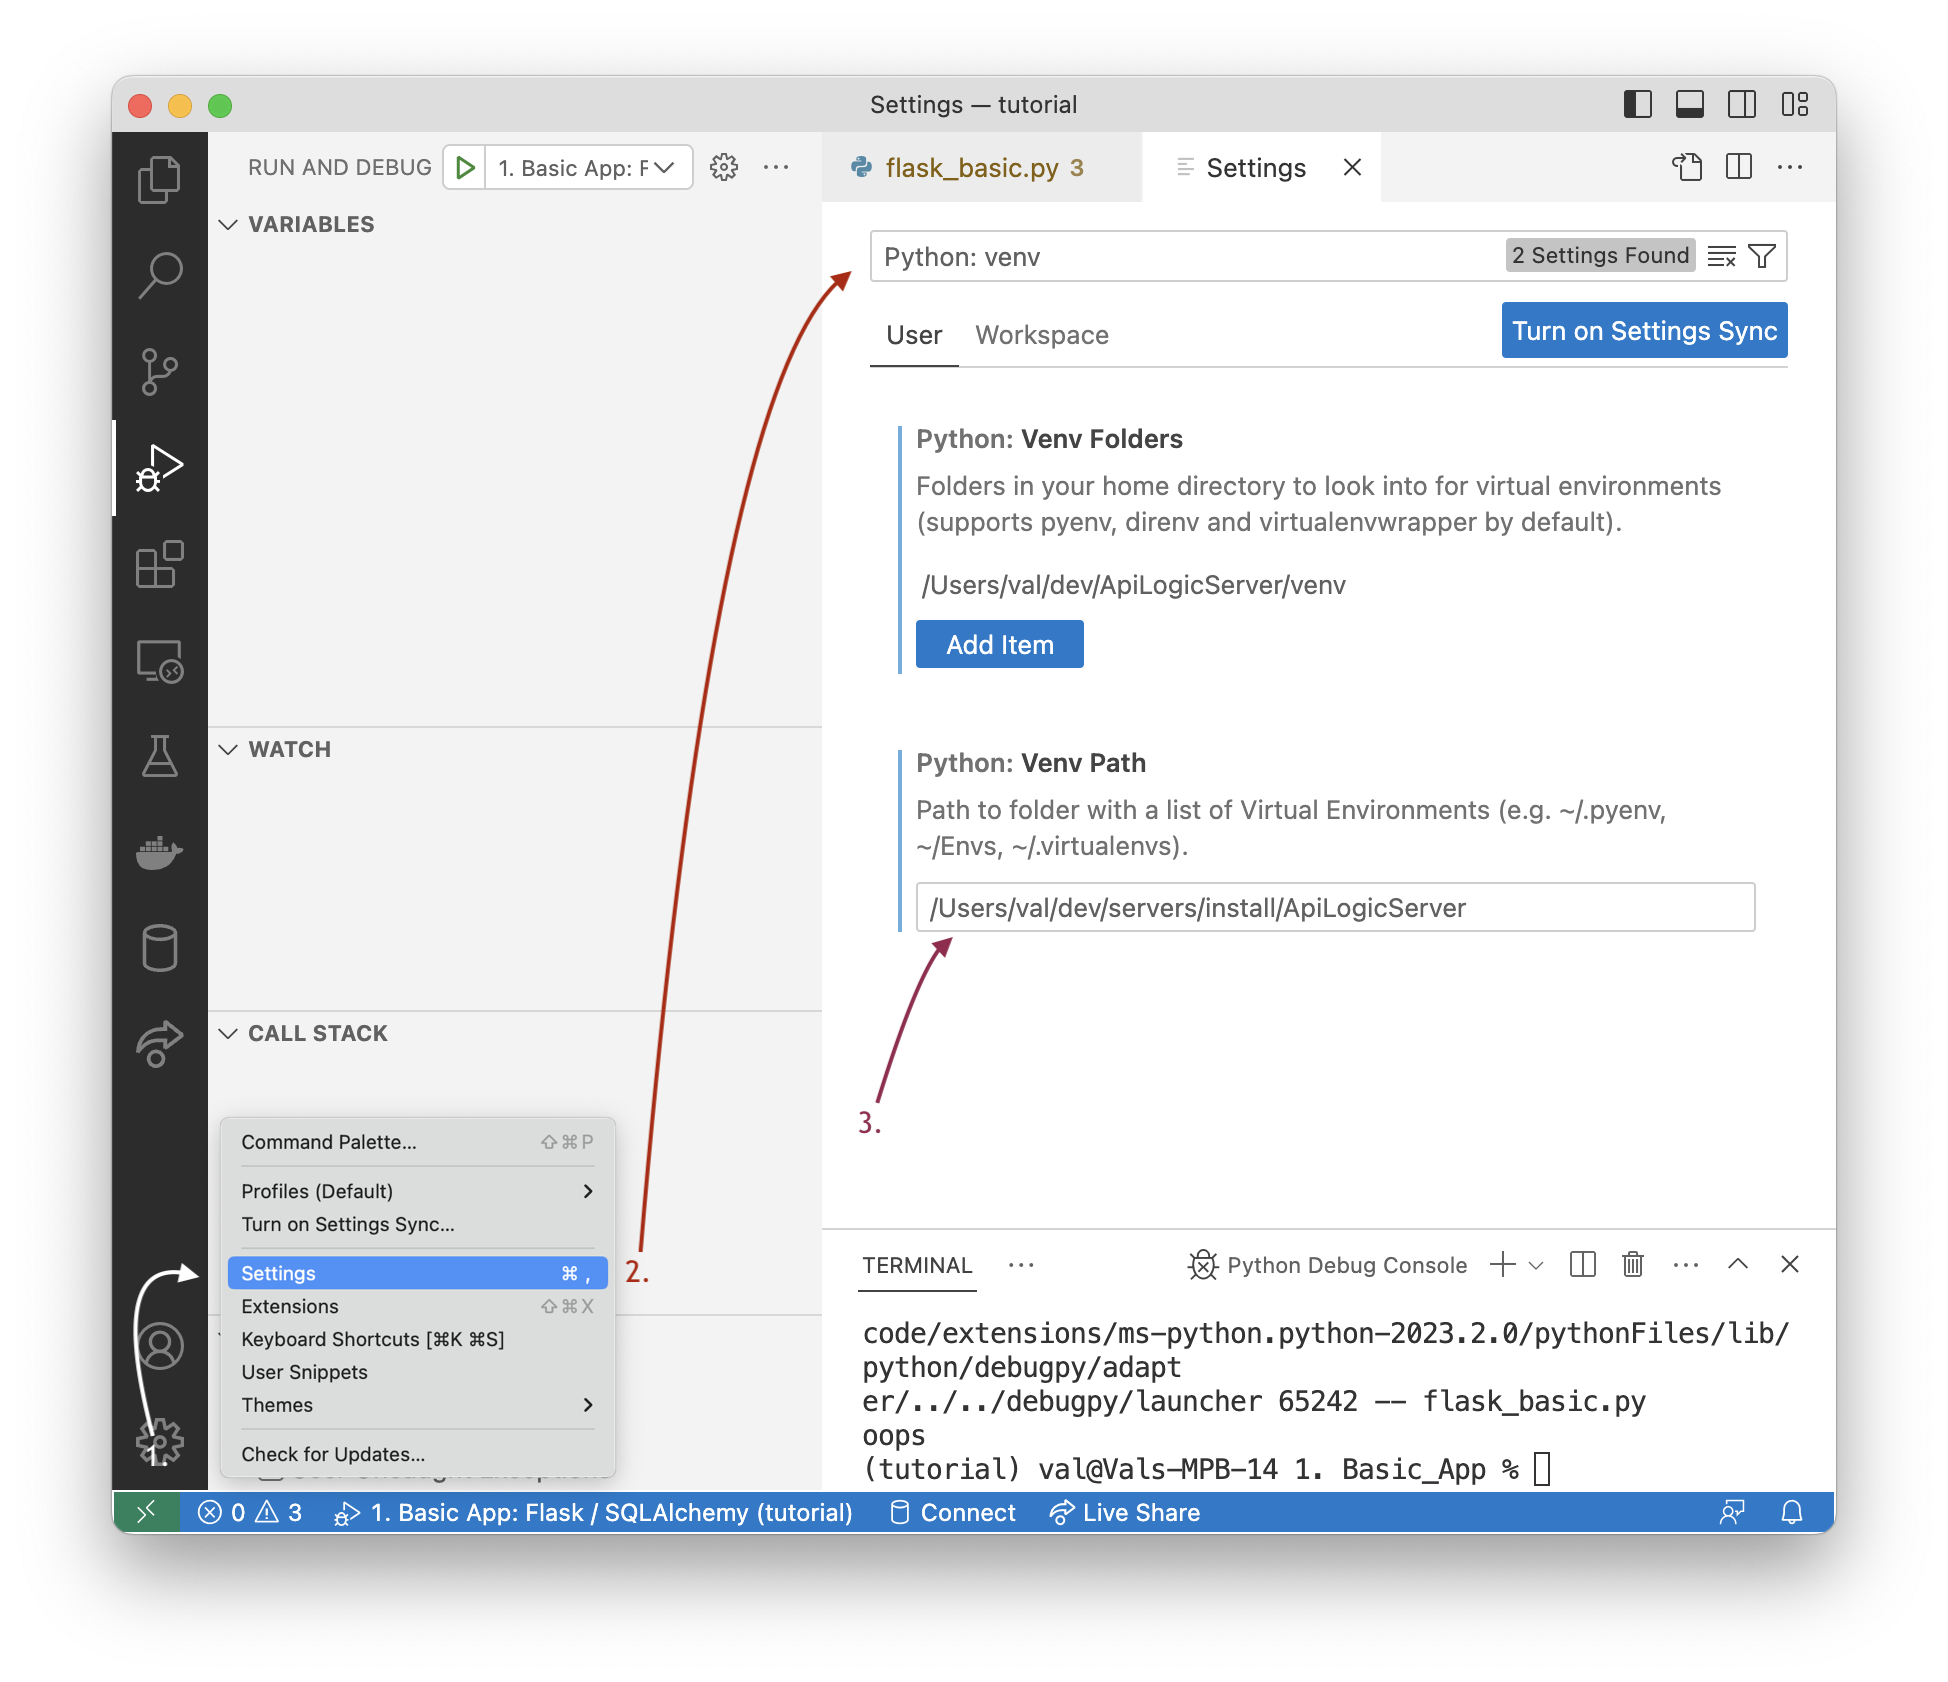
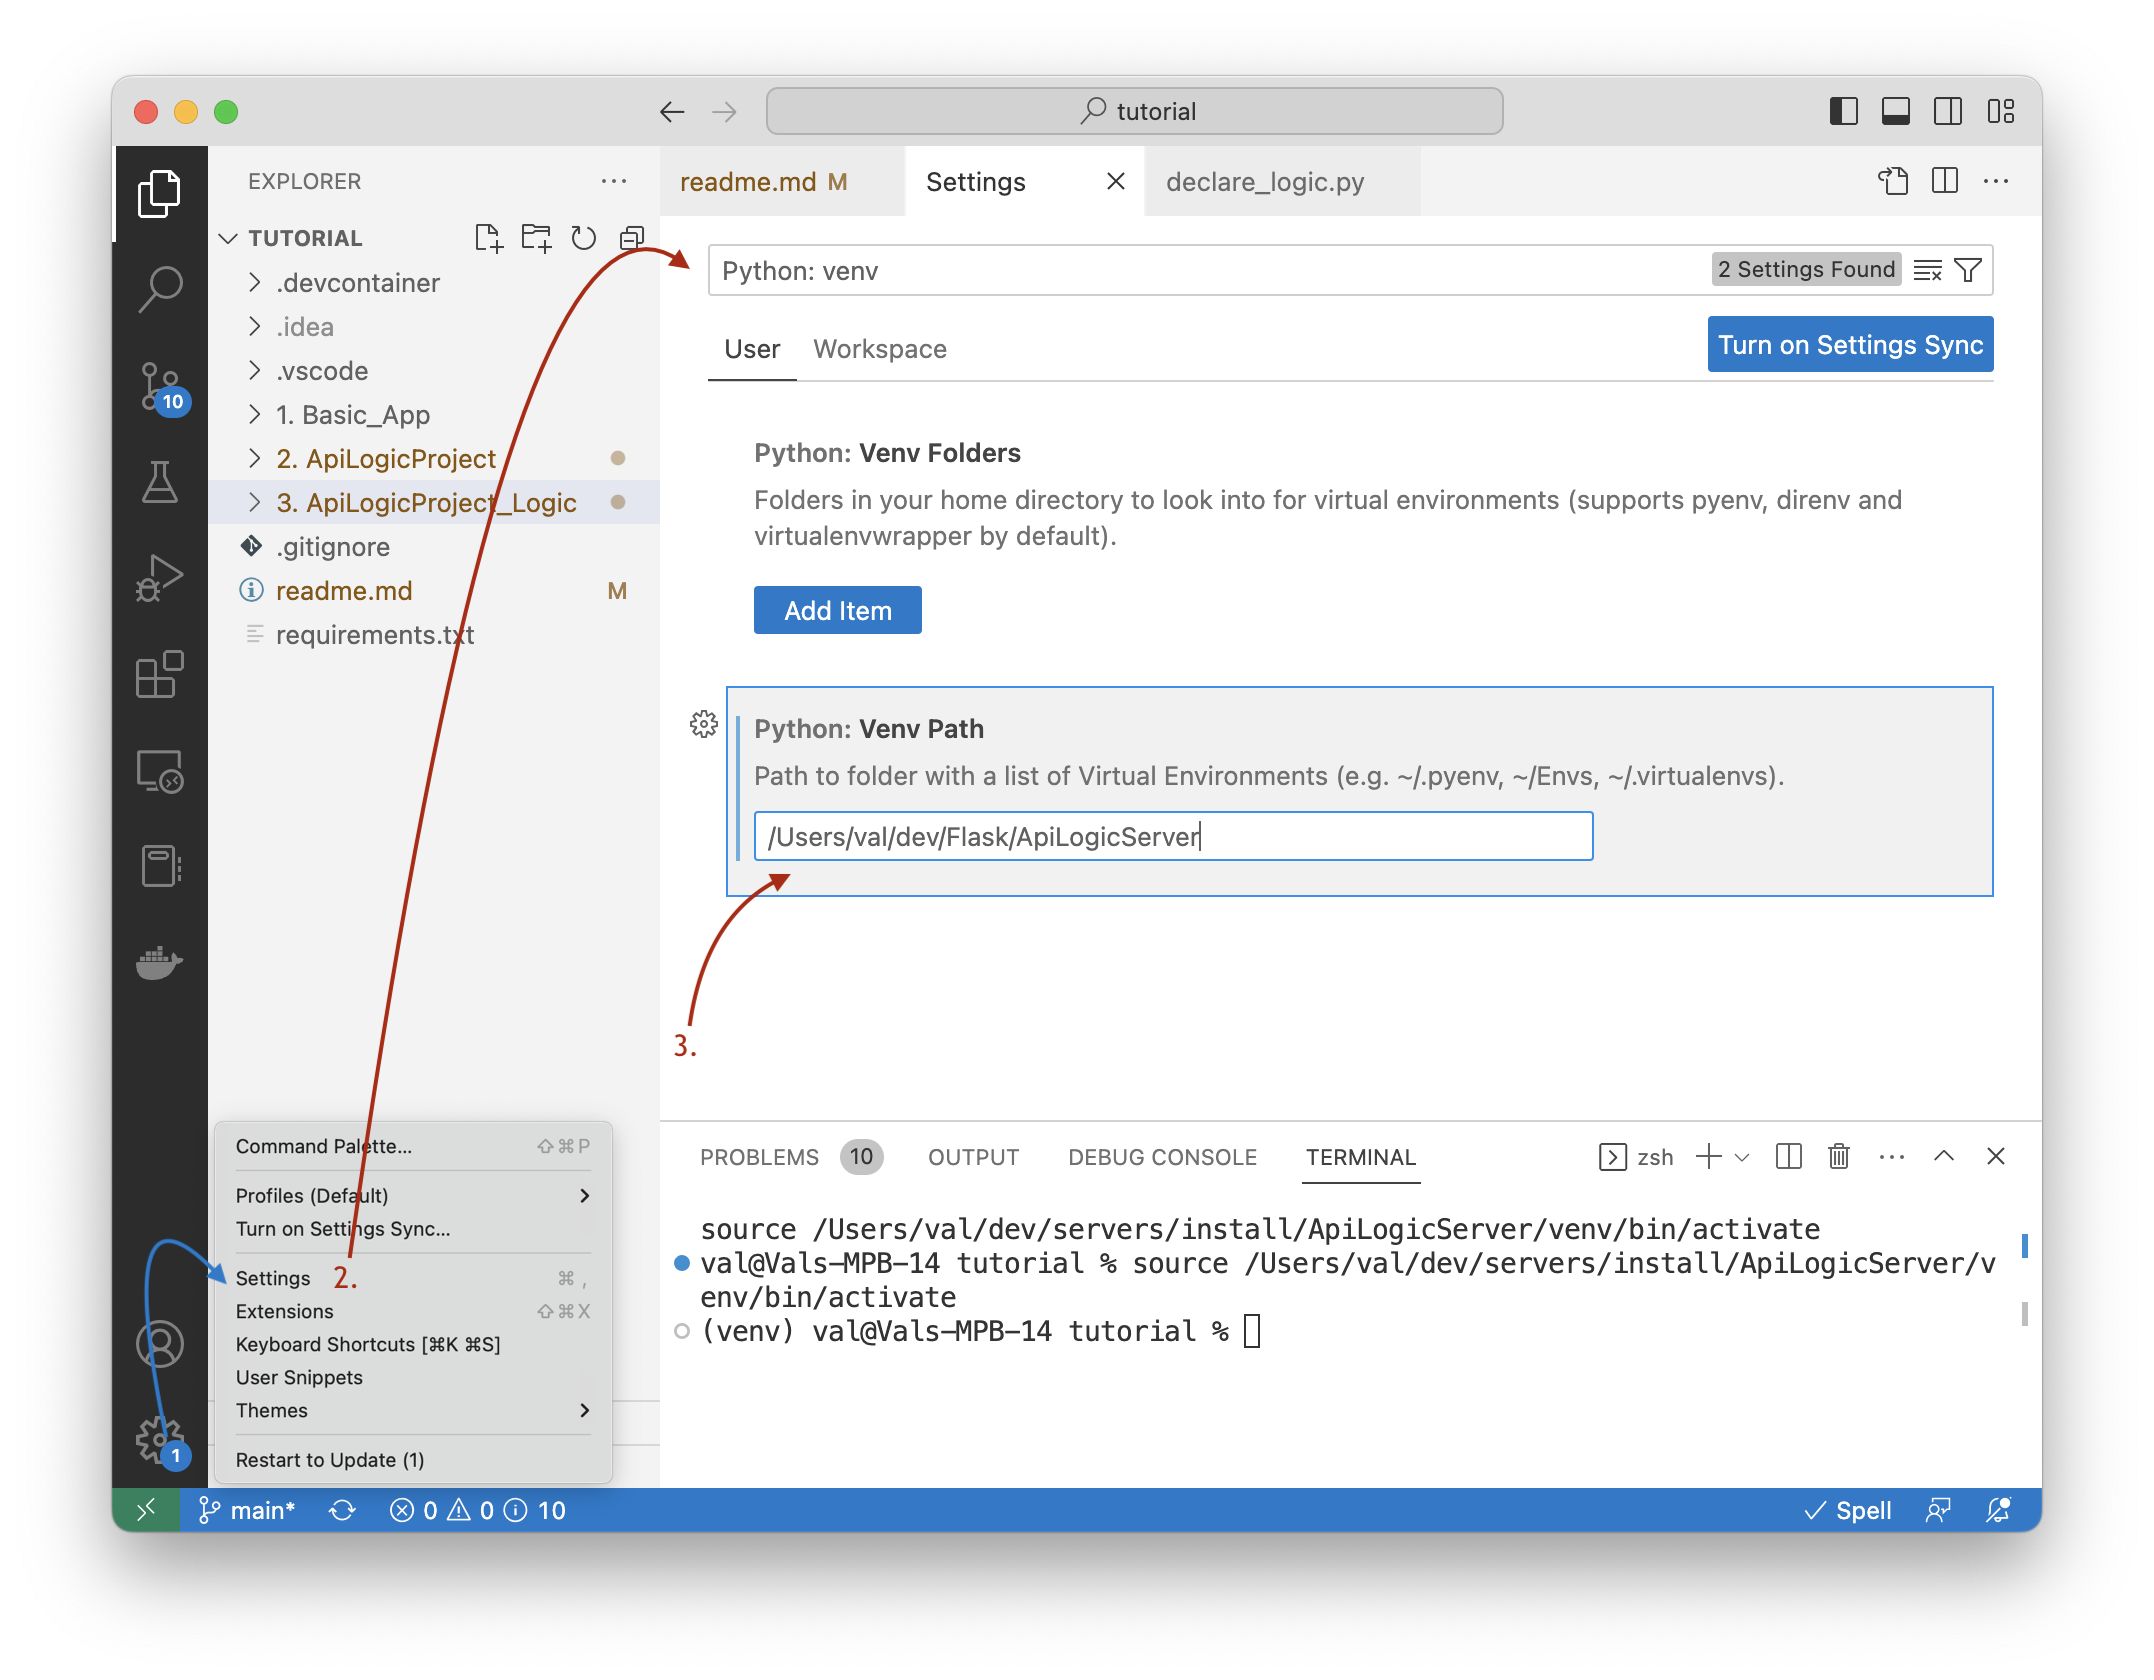
venv clarifications

Changed region(s): [[0.0308, 0.031, 0.9548, 0.9286], [0.308, 0.0619, 0.8932, 0.5881], [0.8316, 0.681, 0.8624, 0.7119]]

diff --git a/docs/Project-Env.md b/docs/Project-Env.md
@@ -30,18 +30,25 @@ Recall this does _not_ apply to docker or Codespace environments.
 
 &nbsp;
 
-To set up and use a shared `venv`:
+A typical way to install API Logic Server is to create a directory called `ApiLogicServer`, and create a `venv` inside it, like this:
 
+```bash title="Install API Logic Server in a Virtual Environment"
+python -m venv venv                  # may require python3 -m venv venv
+venv\Scripts\activate                # mac/linux: source venv/bin/activate
+python -m pip install ApiLogicServer
+```
 
-A typical install might create a directory called ApiLogicServer, and create a `venv` inside it, like this:
+&nbsp;
+
+The resultant directory structure:
 
 ![Installed venv](images/tutorial/setup/install-dirs.png)
 
-The `venv` from `pip install ApiLogicServer` can be re-used by defining a global path in your settings:
+This `venv` can be re-used by defining a global path in your `Python: venv` setting:
 
 ![Settings to define global venv](images/tutorial/setup/settings-python-venv.png)
 
-Then, choose this `venv` with `select interpreter`:
+Then, choose this `venv` with `select interpreter` (you sometimes have to open a Python file):
 
 ![Select global venv](images/tutorial/setup/select-interpreter.png)
 
